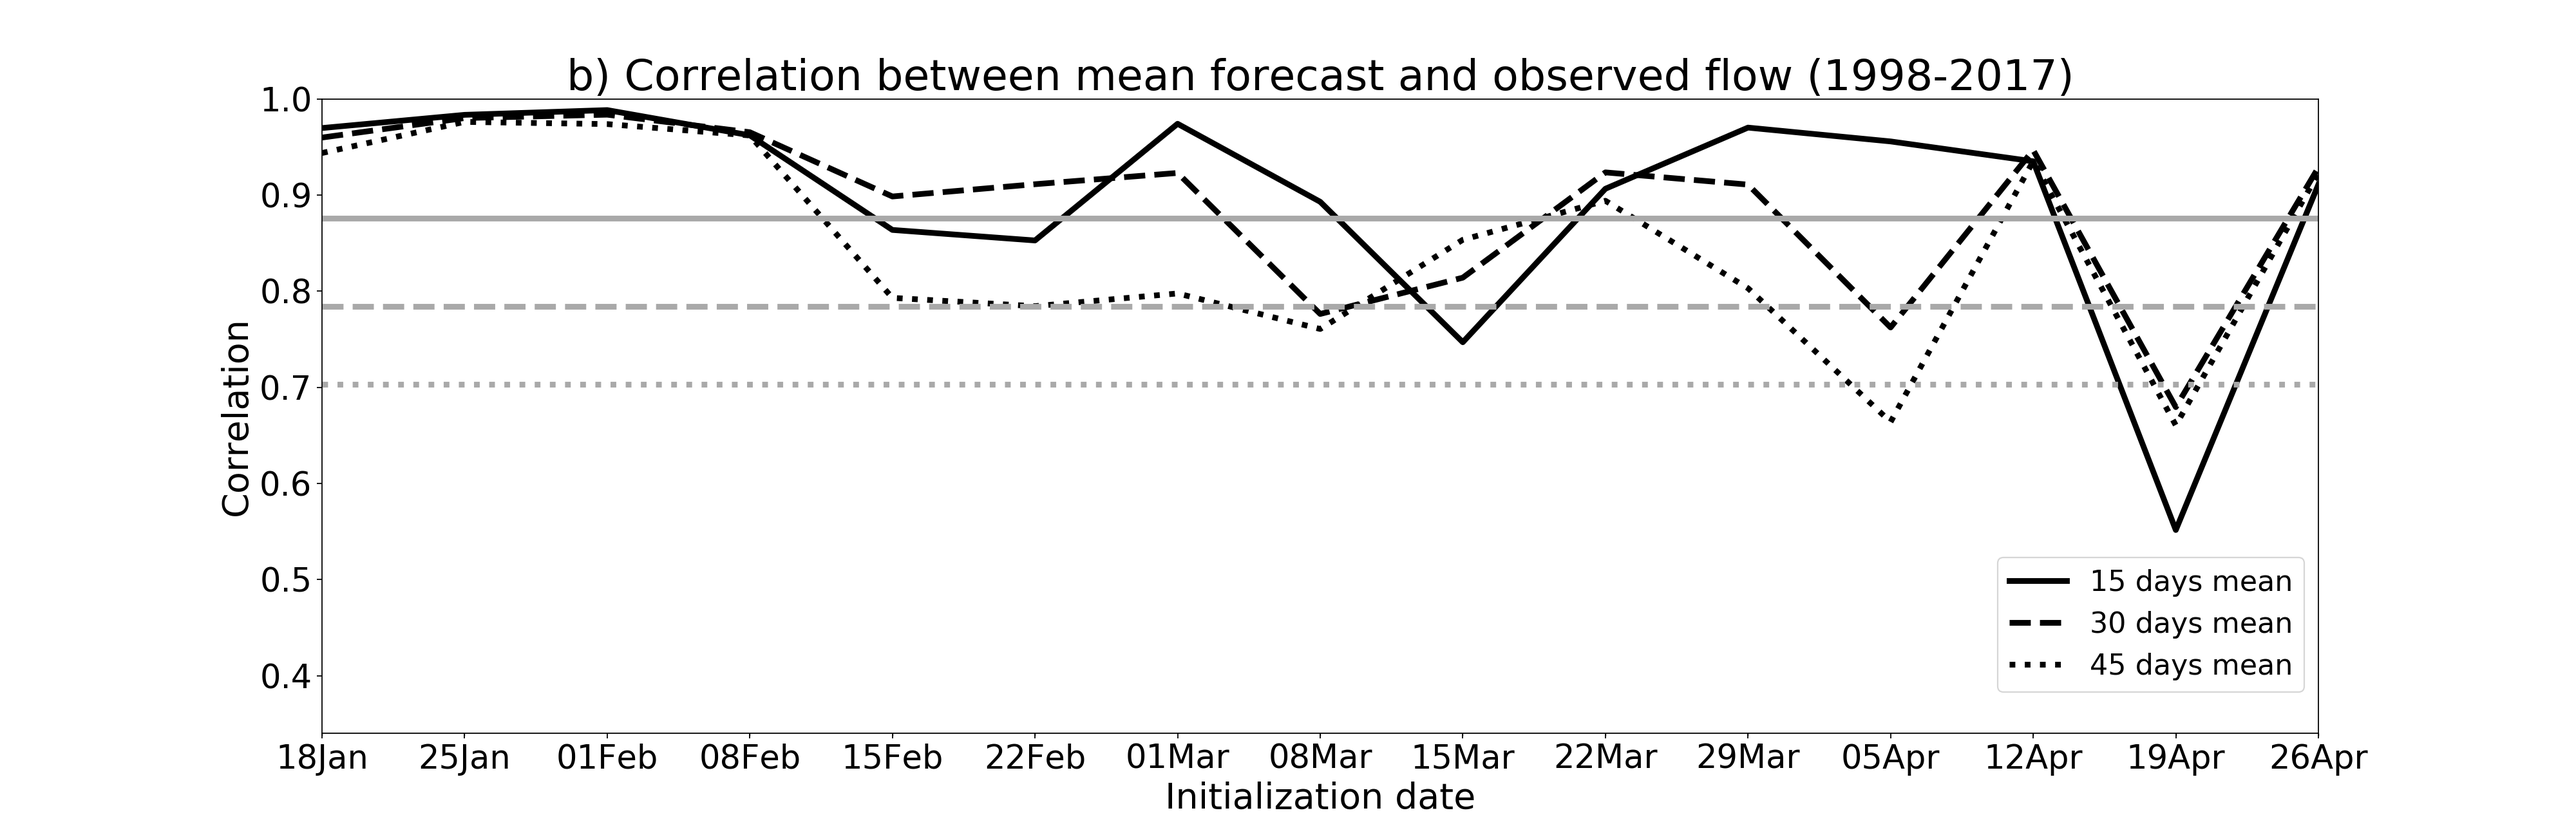
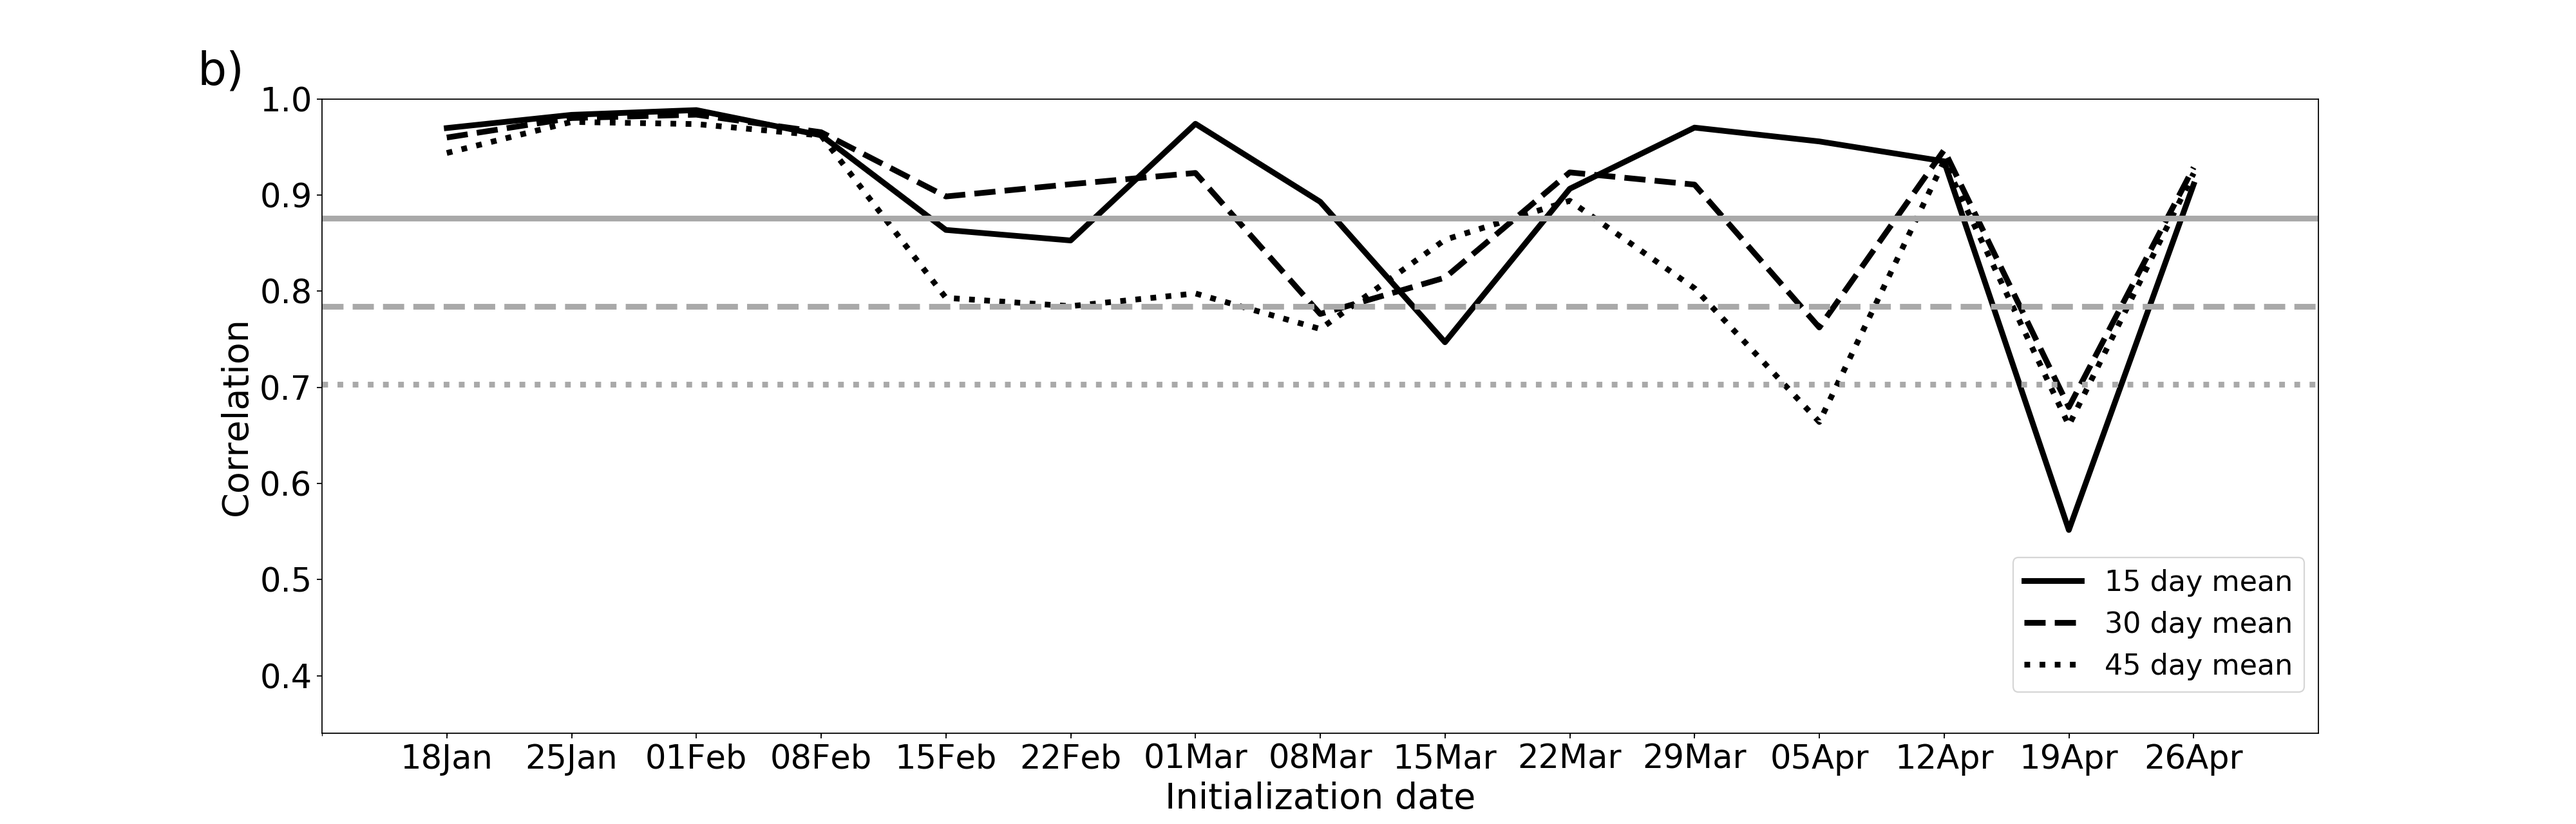
update

diff --git a/mk_thiessen_obs_iguatu.py b/mk_thiessen_obs_iguatu.py
@@ -6,15 +6,15 @@ import netCDF4 as nc4
 
 nbas = '/home/junior/OneDrive/36160000_iguatu_ana.asc'
 nbas = '/home/junior/OneDrive/36160000.asc'
-nbas = '/home/junior/OneDrive/36160000_elisa.asc'
+nbas = '/home/junior/Downloads/Telegram_Desktop/bacia_oros2_incremental/Nova_Bacia_Increm_Oros2.asc'
 
 def pr_thiessen(nbas):
-	data = np.loadtxt('data/obs/pr_daily_funceme_19730101_20200824.asc')
+	data = np.loadtxt('pr_daily_funceme_19730101_20210628.asc')
 
 	pr = data[:, 3:]
 	lon = data[:, 1]
 	lat = data[:, 2]
-	dates = pd.date_range('19730101','20200824')
+	dates = pd.date_range('19730101','20210628')
 	dates = dates.to_pydatetime()
 
 	pr_thi = thiessen(pr,lat,lon, nbas,sep=',', pf=0.0,pf_step=0.3,pf_max=0.9).T
@@ -25,33 +25,33 @@ def pr_thiessen(nbas):
 
 	return df 
   
-def pet_thiessen(nbas):
-	thi = []
-	for y in range(1973,2021):
-		for m in range(1,13):
-			print('http://opendap-ng.funceme.br:8001/dados-obs/inmet-ana-sinda/kriging/daily/pet/{0}/pet-daily-inmet-sinda-{0}{1:02d}-0p5.nc'.format(y,m))
+# def pet_thiessen(nbas):
+# 	thi = []
+# 	for y in range(1973,2021):
+# 		for m in range(1,13):
+# 			print('http://opendap-ng.funceme.br:8001/dados-obs/inmet-ana-sinda/kriging/daily/pet/{0}/pet-daily-inmet-sinda-{0}{1:02d}-0p5.nc'.format(y,m))
       
-			if y == 2020 and m == 9:
-				break
-			else:
-				ndid = nc4.Dataset('http://opendap-ng.funceme.br:8001/dados-obs/inmet-ana-sinda/kriging/daily/pet/{0}/pet-daily-inmet-sinda-{0}{1:02d}-0p5.nc'.format(y,m))
+# 			if y == 2020 and m == 9:
+# 				break
+# 			else:
+# 				ndid = nc4.Dataset('http://opendap-ng.funceme.br:8001/dados-obs/inmet-ana-sinda/kriging/daily/pet/{0}/pet-daily-inmet-sinda-{0}{1:02d}-0p5.nc'.format(y,m))
 
-				pet = ndid.variables['pet'][:]
-				lat = ndid.variables['lat'][:]
-				lon = ndid.variables['lon'][:]
-				time = ndid.variables['time']
-				pet_thi = thiessen(pet,lat,lon, nbas, sep=',',pf=0.0,pf_step=0.3,pf_max=0.9,usenc=True).T
-				for ii in range(len(pet_thi)):
-					thi.append(pet_thi[ii][0])
-				print(nc4.num2date(time[:],time.units)[-1].strftime('%Y%m%d'))
+# 				pet = ndid.variables['pet'][:]
+# 				lat = ndid.variables['lat'][:]
+# 				lon = ndid.variables['lon'][:]
+# 				time = ndid.variables['time']
+# 				pet_thi = thiessen(pet,lat,lon, nbas, sep=',',pf=0.0,pf_step=0.3,pf_max=0.9,usenc=True).T
+# 				for ii in range(len(pet_thi)):
+# 					thi.append(pet_thi[ii][0])
+# 				print(nc4.num2date(time[:],time.units)[-1].strftime('%Y%m%d'))
   
-	return np.array(thi)
-#thi = pet_thiessen(nbas)
+# 	return np.array(thi)
+# #thi = pet_thiessen(nbas)
 #dates=pd.date_range('19730101','20200823')
 #df = pd.DataFrame(data=thi, index=dates)
 #df.to_csv('pet_daily_thiessen_bac_iguatu_36160000.csv', header=False, sep=' ')
 
 pr = pr_thiessen(nbas)
-pr.to_csv('pr_daily_thiessen_bac_iguatu_36160000_19730101_20200824.csv', header=False, sep=' ')
+pr.to_csv('pr_daily_thiessen_bac_iguatu_36160000_19730101_20210628.csv', header=False, sep=' ')
 #print(thi)
 

diff --git a/flow_s2s_metrics_member.py b/flow_s2s_metrics_member.py
@@ -266,7 +266,9 @@ q_f_raw_mat = np.load('q_f_raw_mat.npy')
 #        df_q_h_raw = pd.DataFrame(data=q_h_obs_mat[8,:,2], index=range(1998,2018))
 #        df_q_h_raw.to_csv('data/obs/flow_obs_{}_{}_member.txt'.format('45days','0301'))
 
-# testando empirical cdf bias remove
+#-------------------------------------------------------------------------#
+
+# Empirical cdf bias remove
 
 q_f_cor_em = np.zeros((17,51,4))
 for ih in range(3):
@@ -509,8 +511,8 @@ for id in range(17):
         p33[id, ih] = np.percentile(pobs[~np.isnan(pobs)], 33.33)
         p66[id, ih]  = np.percentile(pobs[~np.isnan(pobs)], 66.66)
        
-labelh = ['15 days mean', '30 days mean', '45 days mean']
-panel = ['d' , 'e', 'f']
+labelh = ['15 day mean', '30 day mean', '45 day mean']
+panel = ['d' , 'c', 'f']
 dd = []
 date_dt = []
 for d in dates:
@@ -537,8 +539,11 @@ for ih,hor in enumerate(horizons[0:3]):
     plt.setp(bp['whiskers'], linewidth=2)
 
     plt.ylim(0,250)
+    plt.xlim(-1.0,15.)
     plt.legend(bbox_to_anchor=(0.38, 1.0),fontsize=17,loc='upper right')
-    plt.title('{1}) Flow Forecast for 2018 ({0})'.format(labelh[ih], panel[ih]),fontsize=30)
+    #plt.title('{1}) Flow Forecast for 2018 ({0})'.format(labelh[ih], panel[ih]),fontsize=30)
+    #plt.title('{1})'.format(labelh[ih], panel[ih]), loc='left',fontsize=32)
+    plt.text(-2, 255, '{0})'.format(panel[ih]), fontsize=32)
     plt.xticks(range(15),dd[2:],rotation=0, fontsize=23)
     plt.tick_params(axis="y", labelsize=23)
 
@@ -634,7 +639,7 @@ plt.savefig('correl_hind_9817.png')
 
 cats = ['below 50th', 'between 50-80th', 'above 80th']
 fign = ['50th', '50-80th', '80th']
-labs = ['15 days mean', '30 days mean', '45 days mean']      
+labs = ['15 day mean', '30 day mean', '45 day mean']      
 dd = []
 date_dt = []
 for d in dates:

diff --git a/flow_s2s_metrics.py b/flow_s2s_metrics.py
@@ -329,7 +329,7 @@ for d in dates:
     #day=datetime.strftime('%d')
     #mon=d[-4:-2]
     dd.append('{}'.format(dt_str))
-labs = ['15 days mean', '30 days mean', '45 days mean']   
+labs = ['15 day mean', '30 day mean', '45 day mean']   
 
 fig, ax = plt.subplots(dpi=160,figsize=(25,8.))
 df = pd.DataFrame(data=correl_hind, index=date_dt,columns=horizons)
@@ -359,7 +359,10 @@ plt.axhline(correl_global[0,2],linestyle='dotted', color='darkgray', linewidth=4
 ax.legend(bbox_to_anchor=(1.0, 0.3 ),fontsize=20)
 #ax.legend('center left', bbox_to_anchor(1,0.5))
 ax.set_ylim([0.34,1.])
-ax.set_title('b) Correlation between mean forecast and observed flow (1998-2017)', fontsize=30)
+ax.set_xlim([date_dt[0]+relativedelta(days=2),date_dt[-1]+relativedelta(days=2)])
+#ax.set_title('b) Correlation between mean forecast and observed flow (1998-2017)', fontsize=30)
+#ax.set_title('b)',loc='left', fontsize=32)
+ax.text(date_dt[0]-relativedelta(days=2), 1.015, 'b)', fontsize=32)
 ax.set_xticks(date_dt[2:])
 ax.set_xticklabels(dd[2:],rotation=0,fontsize=23)
 ax.tick_params(axis="y", labelsize=23)
